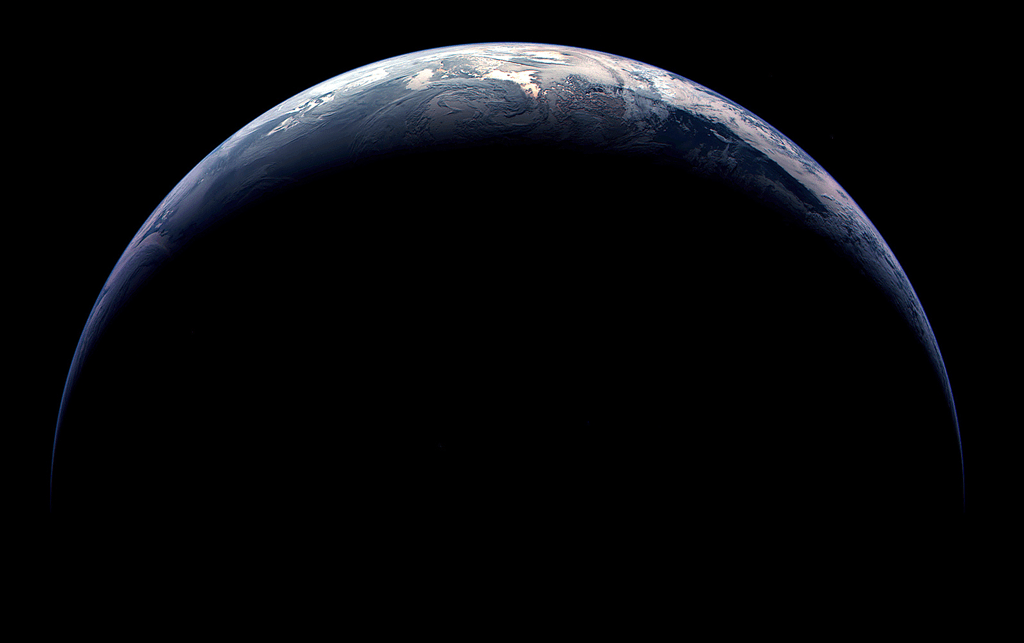
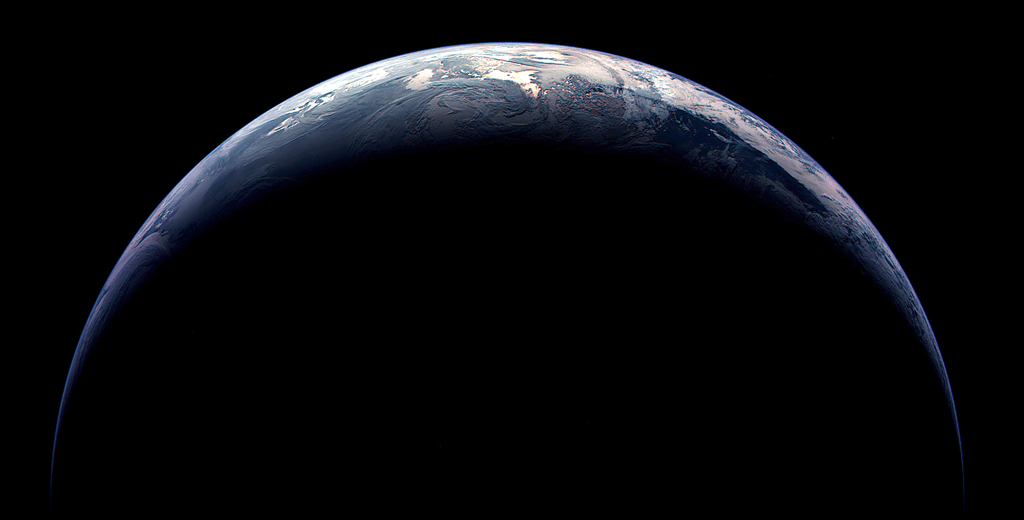
final?

Changed region(s): [[0.0312, 0.0615, 0.9375, 0.8308], [0.0312, 0.7692, 0.0625, 0.8615]]

diff --git a/public/stylesheets/sass/style.sass b/public/stylesheets/sass/style.sass
@@ -2,26 +2,23 @@ body
   position: relative
  
   line-height: 1.625em
-  font: 100%  "Helvetica Neue", Helvetica, "Microsoft YaHei", "WenQuanYi Micro Hei", Arial, sans-serif
+  font: 100% "Helvetica Neue", helvetica, Raleway, Arial, sans-serif
   font-weight: 300
   background: black
   
   color: #f0f0f0
-  overflow: hidden 
+  overflow-x: hidden 
   
   .inner
     width: 1024px
     margin: 0 auto
-    
-    min-height: 700px
+  
+  h1,
+  h2
+    margin: 0
   
   .msg
-    position: relative
     margin-top: 250px
-    
-    h1,
-    h2
-      margin: 0
 
     h1
       padding: 0 0 15px 50px
@@ -29,99 +26,98 @@ body
       font:
         weight: 100
         size: 2.8em
-      
+
+    
+  .form
+    margin: 230px 0 0 380px
+    width: 320px
+    
     h2
       color: #bbb
-    
       font:
-        weight: 300
         size: 1.3em
+        weight: 300
         
       span
         color: #f0f0f0
         font-weight: normal
     
+    p
+      color: #bbb
+      margin: 0
+      padding: 5px 1px
+      
+      font:
+        family: "Helvetica Neue", helvetica, Arial, sans-serif
+        size: 0.8125em
+      
+      line-height: 1.6em
+      
     
-    .form
-      position: absolute
-      width: 320px
-      top: 320px
-      left: 380px
+    .line
+      position: relative
       
-      h2
+      #email
+        width: 160px
+        line-height: 22px
+        padding: 0 5px
+        background: #eee
+        border: none
+        color: #444
+        -moz-box-shadow: #444 1px 1px 2px inset
+        -webkit-box-shadow: #444 1px 1px 2px inset
+        box-shadow: #444 1px 1px 2px inset
         
-      
-      p
-        color: #bbb
-        margin: 0
-        padding: 5px 1px
-        font-size: 0.8125em
-        line-height: 1.6em
         
-      
-      .line
+        &.error
+          background: #FF968F
+          
+      #label
+        position: absolute
+        top: 6px
+        left: 6px
+        color: #aaa
+        font-size: 13px
+        
+        &.light
+          color: #ccc
+        
+      #submit
         position: relative
+        top: 1px
         
-        #email
-          width: 180px
-          line-height: 22px
-          padding: 0 5px
-          background: #eee
-          border: none
-          color: #444
-          -moz-box-shadow: #444 1px 1px 2px inset
-          -webkit-box-shadow: #444 1px 1px 2px inset
-          box-shadow: #444 1px 1px 2px inset
-          
-          
-          &.error
-            background: #FF968F
-            
-        #label
-          position: absolute
-          top: 6px
-          left: 6px
-          color: #aaa
-          font-size: 13px
-          
-          &.light
-            color: #ccc
-          
-        #submit
-          position: relative
-          top: 1px
-          
-          font:
-            size: 14px
-            family: "Helvetica Neue", Helvetica, "Microsoft YaHei", "WenQuanYi Micro Hei", Arial, sans-serif
-          padding: 4px 15px 3px 15px
-          display: inline-block
-          cursor: pointer
-          -moz-border-radius: 4px
-          -webkit-border-radius: 4px
-          border-radius: 4px
-          -moz-box-shadow: #5E83DF 0 1px 3px
-          -webkit-box-shadow: #5E83DF 0 1px 3px
-          box-shadow: #5E83DF 0 1px 3px
-          background-color: #286adf
-          border: 0
-          color: white
-          
-          &:hover
-            background-color: #1f5ecf
+        font:
+          size: 14px
+          family: "Helvetica Neue", helvetica, Arial, sans-serif
+        
+        padding: 4px 15px 3px 15px
+        display: inline-block
+        cursor: pointer
+        -moz-border-radius: 4px
+        -webkit-border-radius: 4px
+        border-radius: 4px
+        -moz-box-shadow: #5E83DF 0 1px 3px
+        -webkit-box-shadow: #5E83DF 0 1px 3px
+        box-shadow: #5E83DF 0 1px 3px
+        background-color: #286adf
+        border: 0
+        color: white
+        
+        &:hover
+          background-color: #1f5ecf
           
         
       
   #earth
     position: absolute
-    bottom: 60px
+    top: 40px
     
     z-index: -1
     
-    height: 600px
+    height: 520px
     width: 1024px
     
-    background:  transparent url('s3-ap-northeast-1.amazonaws.com/contree/earth.png') top center no-repeat
+    background:  transparent url('https://s3-ap-northeast-1.amazonaws.com/contree/earth.png') top center no-repeat
     
     .form
       position: absolute

diff --git a/public/stylesheets/style.css b/public/stylesheets/style.css
@@ -1,1 +1,1 @@
-body{position:relative;line-height:1.625em;font:100% "Helvetica Neue",Helvetica,"Microsoft YaHei","WenQuanYi Micro Hei",Arial,sans-serif;font-weight:300;background:#000;color:#f0f0f0;overflow:hidden}body .inner{width:1024px;margin:0 auto;min-height:700px}body .msg{position:relative;margin-top:250px}body .msg h1,body .msg h2{margin:0}body .msg h1{padding:0 0 15px 50px;text-align:center;font-weight:100;font-size:2.8em}body .msg h2{color:#bbb;font-weight:300;font-size:1.3em}body .msg h2 span{color:#f0f0f0;font-weight:normal}body .msg .form{position:absolute;width:320px;top:320px;left:380px}body .msg .form p{color:#bbb;margin:0;padding:5px 1px;font-size:0.8125em;line-height:1.6em}body .msg .form .line{position:relative}body .msg .form .line #email{width:180px;line-height:22px;padding:0 5px;background:#eee;border:none;color:#444;-moz-box-shadow:#444 1px 1px 2px inset;-webkit-box-shadow:#444 1px 1px 2px inset;box-shadow:#444 1px 1px 2px inset}body .msg .form .line #email.error{background:#ff968f}body .msg .form .line #label{position:absolute;top:6px;left:6px;color:#aaa;font-size:13px}body .msg .form .line #label.light{color:#ccc}body .msg .form .line #submit{position:relative;top:1px;font-size:14px;font-family:"Helvetica Neue",Helvetica,"Microsoft YaHei","WenQuanYi Micro Hei",Arial,sans-serif;padding:4px 15px 3px 15px;display:inline-block;cursor:pointer;-moz-border-radius:4px;-webkit-border-radius:4px;border-radius:4px;-moz-box-shadow:#5e83df 0 1px 3px;-webkit-box-shadow:#5e83df 0 1px 3px;box-shadow:#5e83df 0 1px 3px;background-color:#286adf;border:0;color:#fff}body .msg .form .line #submit:hover{background-color:#1f5ecf}body #earth{position:absolute;bottom:60px;z-index:-1;height:600px;width:1024px;background:transparent url("/images/earth.png") top center no-repeat}body #earth .form{position:absolute;bottom:300px;width:1024px;text-align:center}
+body{position:relative;line-height:1.625em;font:100% "Helvetica Neue",helvetica,Raleway,Arial,sans-serif;font-weight:300;background:#000;color:#f0f0f0;overflow-x:hidden}body .inner{width:1024px;margin:0 auto}body h1,body h2{margin:0}body .msg{margin-top:250px}body .msg h1{padding:0 0 15px 50px;text-align:center;font-weight:100;font-size:2.8em}body .form{margin:230px 0 0 380px;width:320px}body .form h2{color:#bbb;font-size:1.3em;font-weight:300}body .form h2 span{color:#f0f0f0;font-weight:normal}body .form p{color:#bbb;margin:0;padding:5px 1px;font-family:"Helvetica Neue",helvetica,Arial,sans-serif;font-size:0.8125em;line-height:1.6em}body .form .line{position:relative}body .form .line #email{width:160px;line-height:22px;padding:0 5px;background:#eee;border:none;color:#444;-moz-box-shadow:#444 1px 1px 2px inset;-webkit-box-shadow:#444 1px 1px 2px inset;box-shadow:#444 1px 1px 2px inset}body .form .line #email.error{background:#ff968f}body .form .line #label{position:absolute;top:6px;left:6px;color:#aaa;font-size:13px}body .form .line #label.light{color:#ccc}body .form .line #submit{position:relative;top:1px;font-size:14px;font-family:"Helvetica Neue",helvetica,Arial,sans-serif;padding:4px 15px 3px 15px;display:inline-block;cursor:pointer;-moz-border-radius:4px;-webkit-border-radius:4px;border-radius:4px;-moz-box-shadow:#5e83df 0 1px 3px;-webkit-box-shadow:#5e83df 0 1px 3px;box-shadow:#5e83df 0 1px 3px;background-color:#286adf;border:0;color:#fff}body .form .line #submit:hover{background-color:#1f5ecf}body #earth{position:absolute;top:40px;z-index:-1;height:520px;width:1024px;background:transparent url("https://s3-ap-northeast-1.amazonaws.com/contree/earth.png") top center no-repeat}body #earth .form{position:absolute;bottom:300px;width:1024px;text-align:center}

diff --git a/splash.rb b/splash.rb
@@ -12,24 +12,23 @@ class Splash < Sinatra::Base
   enable :sessions
   use Rack::Flash, :sweep => true
   
-  set :database_file, "database.yml"
+  set :database_file, "config/database.yml"
   
-  I18n.load_path += Dir[File.join(File.dirname(__FILE__), 'locales', '*.yml').to_s]
-
-  Geoip = GeoIP.new("GeoIP.dat")
-  
-  helpers do
-    def t(token)
-      I18n.t(token)
-    end
-  end
-  
-  before do
-    info = Geoip.country(request.env["REMOTE_ADDR"])
-    # info = Geoip.country('124.79.38.211')
-    
-    I18n.locale = %w(cn hk tw sg mo).include?(info.country_code2.downcase) ? 'zh' : 'en'
-  end
+  # I18n.load_path += Dir[File.join(File.dirname(__FILE__), 'locales', '*.yml').to_s]
+  # Geoip = GeoIP.new("GeoIP.dat")
+  #
+  # helpers do
+  #   def t(token)
+  #     I18n.t(token)
+  #   end
+  # end
+  #  
+  # before do
+  #   info = Geoip.country(request.env["REMOTE_ADDR"])
+  #   # info = Geoip.country('124.79.38.211')
+  #   
+  #   I18n.locale = %w(cn hk tw sg mo).include?(info.country_code2.downcase) ? 'zh' : 'en'
+  # end
   
   get '/' do
     @contact = Contact.new
